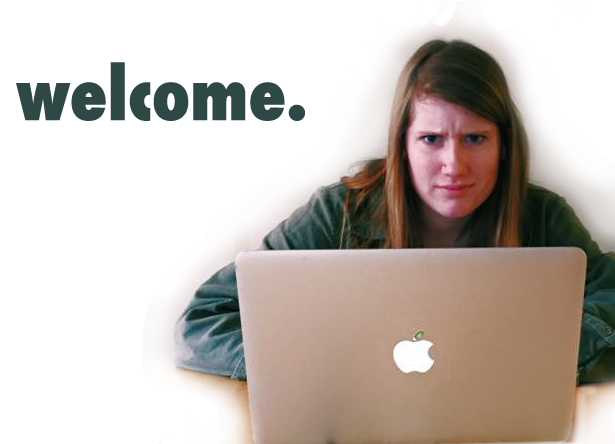
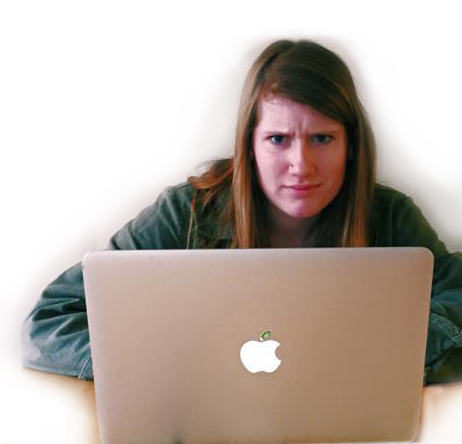
no welcome

diff --git a/css/styles.css b/css/styles.css
@@ -91,7 +91,7 @@ article{
 
 #molly-comp{
    float: right;
-   width: 98%;
+   width: 85%;
    margin-right:-10%;
    margin-left:10%;
 }
